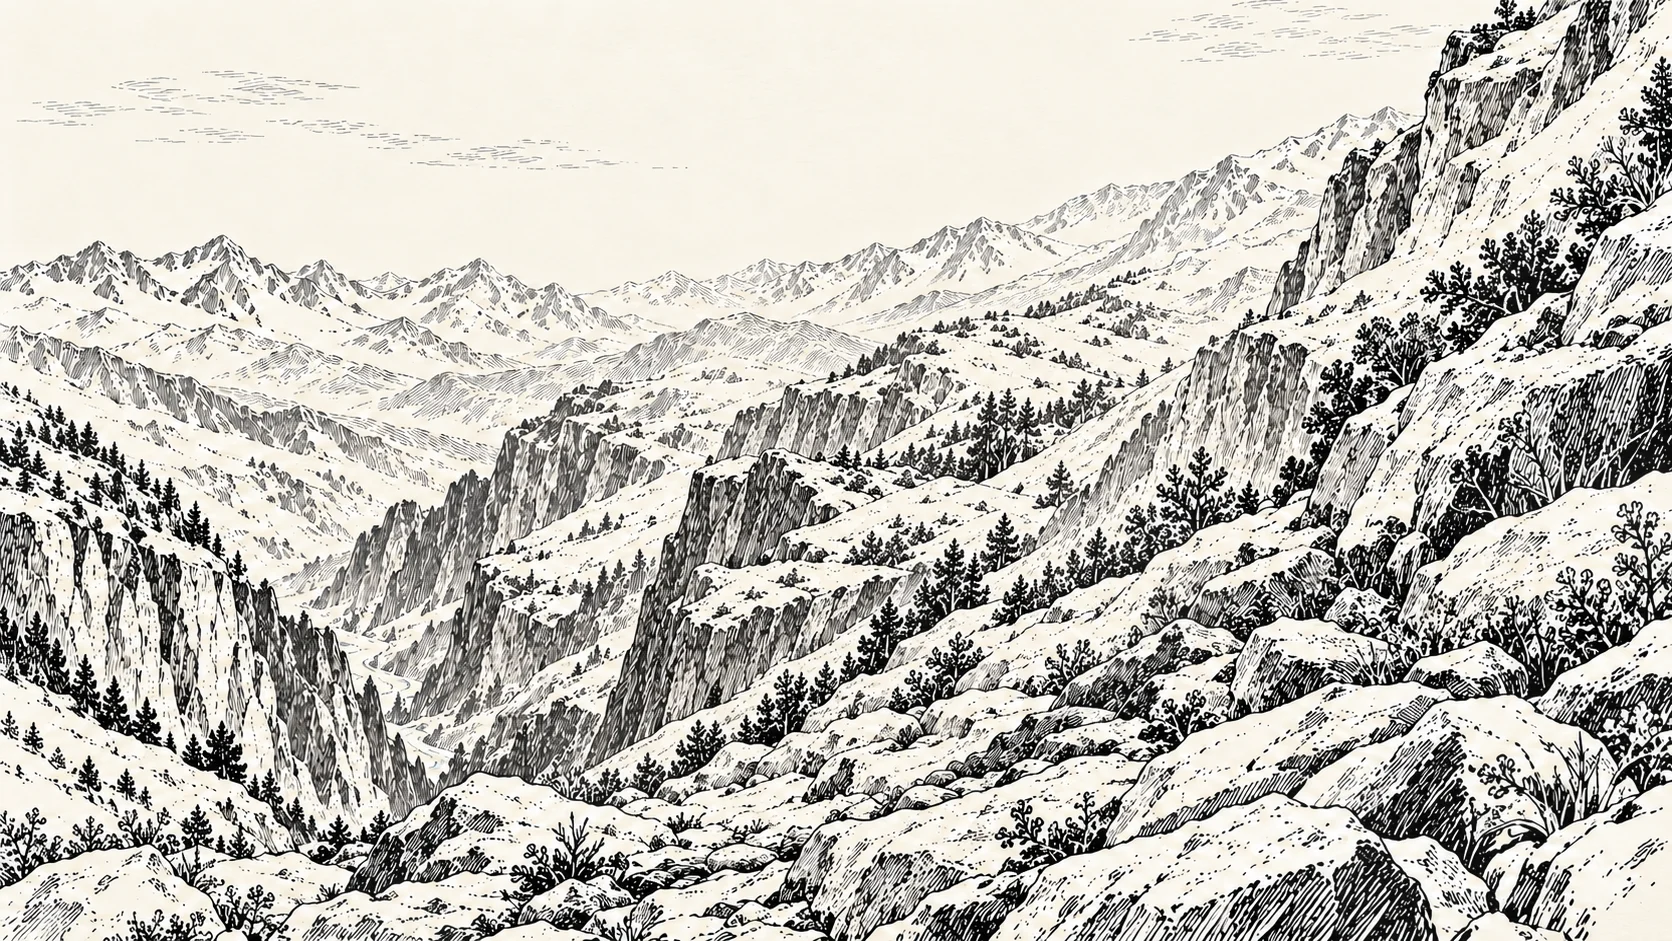
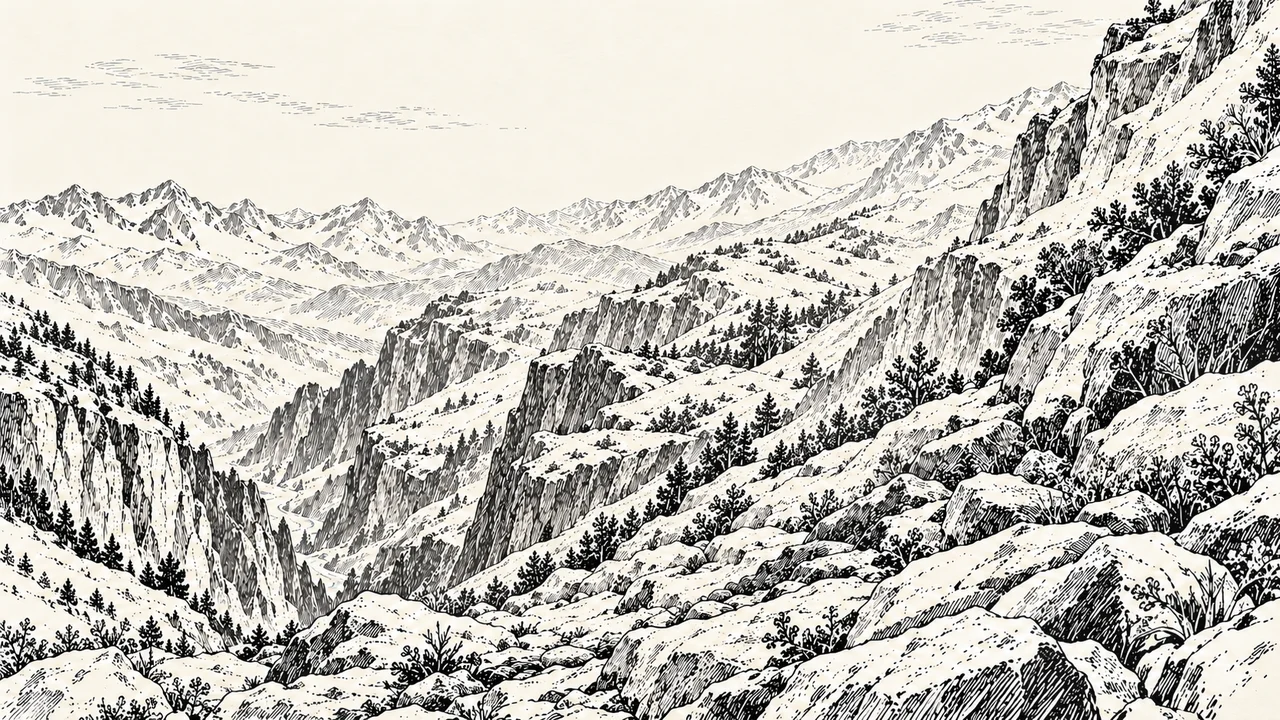
АЯРА: без рамки, плавная камера

diff --git a/js/main.js b/js/main.js
@@ -81,7 +81,7 @@ window.GI_BRAND = {
   var insets = Array.prototype.slice.call(tower.querySelectorAll(".inset"));
   var narrow = window.matchMedia("(max-width: 700px)");
   var cam = { x: 0.5, y: FH / 2, h: FH, w: 1, vy: 0 };
-  var shown = -1, last = 0;
+  var shown = -1, last = 0, Hs = 0, fs = null, fv = 0, narrowWas = null;
 
   // DOM-мир: кадры и облака картинками — видны, пока не готов WebGL, и если его нет
   function top(y) { return (TH - y) * U; }              // y мира (снизу) -> px сверху
@@ -151,16 +151,21 @@ window.GI_BRAND = {
   // один шаг камеры; js/live.js зовёт его сам перед отрисовкой (иначе холст и бутылка разъезжаются на кадр)
   function step(now) {
     var keys = narrow.matches ? KEYS_PHONE : KEYS, n = keys.length;
-    var W = stick.clientWidth, H = stick.clientHeight;
-    if (!W || !H) return cam;                           // ещё не разложено
+    var W = stick.clientWidth, H0 = stick.clientHeight;
+    if (!W || !H0) return cam;                          // ещё не разложено
     var r = tower.getBoundingClientRect();
-    var p = clamp(-r.top / Math.max(1, r.height - H), 0, 1);
-    var f = toStop(p, n);
-    var g = target(keys, f);
-    var dt = Math.min(0.1, Math.max(0, (now - last) / 1000)); last = now;
-    var k = reduce || !dt ? 1 : 1 - Math.exp(-dt * 7);  // инерция: камера догоняет прокрутку мягко
+    var p = clamp(-r.top / Math.max(1, r.height - H0), 0, 1);
+    var ft = toStop(p, n);
+    var dt = Math.min(0.05, Math.max(0, (now - last) / 1000)); last = now;
+    // камера на «пружине» вдоль пути: положение по прокрутке догоняется без скачков скорости — свайп не дёргает
+    if (reduce || !dt || fs === null || narrowWas !== narrow.matches) { fs = ft; fv = 0; narrowWas = narrow.matches; }
+    else { var om = 7; fv += (om * om * (ft - fs) - 2 * om * fv) * dt; fs += fv * dt; }
+    var f = clamp(fs, 0, n - 1);
+    var g = target(keys, clamp(f, 0, n - 1));
+    // высота экрана на телефоне скачет, когда прячется адресная строка — камера меняет её плавно
+    Hs = Hs && !reduce ? Hs + (H0 - Hs) * (dt ? 1 - Math.exp(-dt * 3) : 1) : H0; var H = Hs;
     var oy = cam.y;
-    cam.x += (g.x - cam.x) * k; cam.y += (g.y - cam.y) * k; cam.h += (g.h - cam.h) * k;
+    cam.x = g.x; cam.y = g.y; cam.h = g.h;
     // кадр не шире мира и не выходит за его края
     var h = Math.min(cam.h, H / W), w = h * W / H;
     cam.x = clamp(cam.x, w / 2, 1 - w / 2);

diff --git a/css/style.css b/css/style.css
@@ -47,8 +47,6 @@ a{color:inherit}
 /* ---------- путь в гору: кадры друг над другом, камера (js/main.js) двигает «мир» внутри закреплённого экрана ---------- */
 .tower{position:relative;height:100svh}
 .tower__stick{position:sticky;top:0;height:100vh;height:100svh;height:100dvh;overflow:hidden;container-type:size;isolation:isolate;background:var(--paper)}
-/* рамка страницы комикса, как у Santioni: бумажное поле и жирная линия тушью поверх всего кадра */
-.tower__stick::after{content:"";position:absolute;inset:0;z-index:4;pointer-events:none;border:clamp(8px,1.1vw,16px) solid var(--paper);box-shadow:inset 0 0 0 3px var(--ink)}
 .tower__world{position:absolute;left:0;top:0;transform-origin:0 0;will-change:transform}
 .tower__img,.tower__cloud{position:absolute;max-width:none}
 /* живая гравюра (js/live.js) поверх картинок; пока не готова — видны картинки. Бутылка — слоем выше холста */

diff --git a/js/live.js b/js/live.js
@@ -373,7 +373,7 @@
       var any = false;
       frames.forEach(function (it) {
         var d = Math.abs(it.f.y + FH / 2 - cam.y);       // от центра кадра до камеры
-        if (d < FH + 0.3) want(it, now); else if (d > 2 * (FH + 0.2)) free(it);   // держим текущий кадр и соседей
+        if (d < FH + 0.7) want(it, now); else if (d > 2 * (FH + 0.4)) free(it);   // соседей грузим заранее, не во время свайпа
         var vis = it.ready && d < FH + cam.h / 2;
         it.bg.visible = vis;
         if (it.fg) it.fg.visible = vis;
